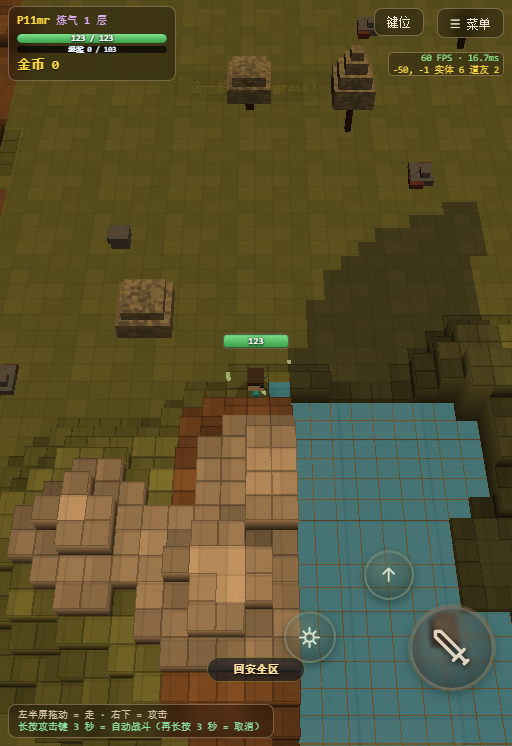
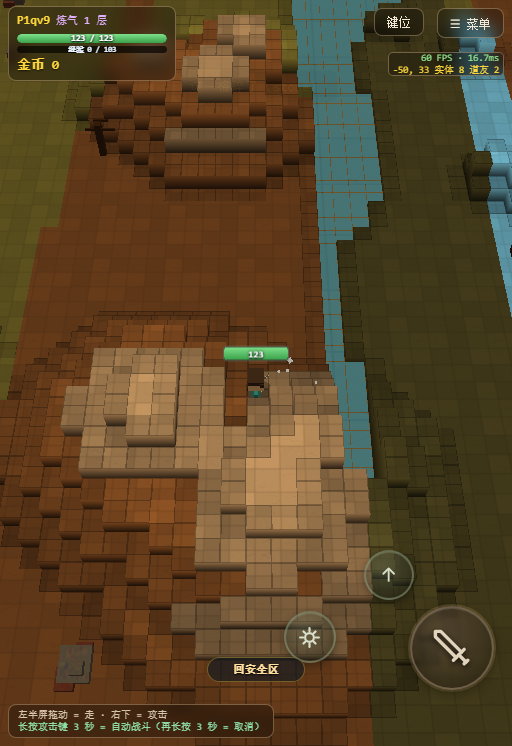
the thrown dagger exists again
I put the throw-queue handling in the delayed-damage function, below its early return, so it
only ever ran when there happened to be a delayed hit pending. With no sword stab in flight -
which is most of the time - the queue was never touched and the dagger was never launched.

The guard now checks both queues. This is the same shape of mistake as the event that never
fired because it was on the wrong side of a filter, and it has the same signature: no error,
no log, a feature that simply does not happen.

diff --git a/server/world.py b/server/world.py
@@ -1689,8 +1689,15 @@ class World(object):
                 self.arrows.pop(str(a['id']), None)
 
     def _later_tick(self):
-        """到点就结算的延迟伤害（★ round382：单手剑连刺第二段 ✓）"""
-        if not self._later:
+        """到点结算的延迟【伤害】和延迟【发射】（round382 / 391 ✓）
+
+        ★★ 自测踩到（用户："飞刀没有了"）★★
+           这里原来是 `if not self._later: return` ✗
+           而【投掷队列】的处理写在这个 return 之后 ✓
+           → 只要没有待结算的伤害 ✗ 投掷就永远不会被发射 ✓
+           ★ 教训：一个函数管两件事时，早退条件必须同时看两个队列 ✓
+        """
+        if not self._later and not self._later_arrow:
             return
         _now = now_s()
         _keep = []
